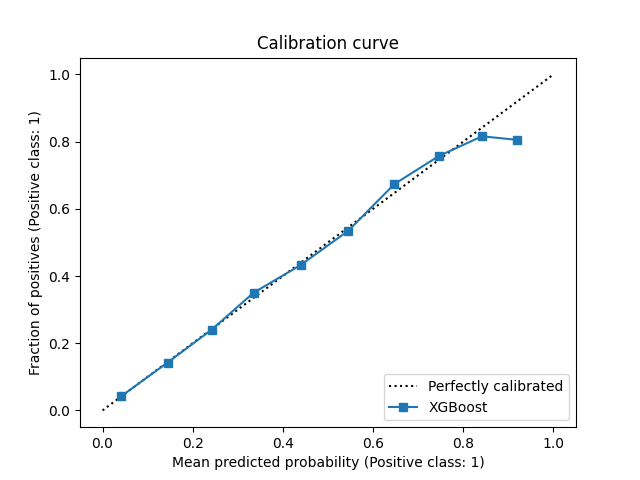
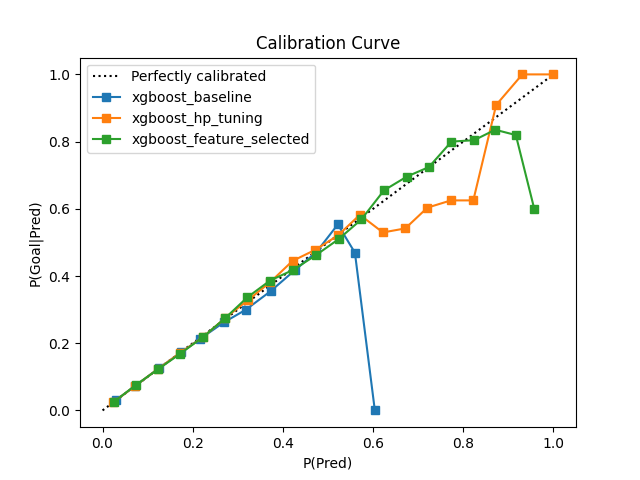
add multiple calibration plot in one figure

diff --git a/xgboost_class.py b/xgboost_class.py
@@ -11,7 +11,7 @@ import shap
 import functools
 import operator
 from xgboost import plot_importance
-from sklearn.calibration import CalibrationDisplay
+from sklearn.calibration import calibration_curve
 import xgboost as xgb
 import plotly.graph_objects as go
 from sklearn.metrics import roc_auc_score, roc_curve, accuracy_score, confusion_matrix
@@ -310,16 +310,28 @@ class xgboost_model():
         plt.savefig(save_path)
         plt.show()
 
-    def plot_calibration_curve(self, results, save_path):
-        y_prob = functools.reduce(
-            operator.iconcat, results['val']['probabilities'], [])
-        y_true = functools.reduce(
-            operator.iconcat, results['val']['labels'], [])
-        disp = CalibrationDisplay.from_predictions(
-            y_true, y_prob, n_bins=10, name='XGBoost', strategy='uniform')
-        disp.ax_.set_title('Calibration curve')
-        disp.figure_.savefig(save_path)
+    def plot_calibration_curve(self, models, results, save_path):
+        fig = plt.figure()
+        plt.title(f"Calibration Curve")
+        plt.plot([0, 1], [0, 1], "k:", label="Perfectly calibrated")
+        for i in range(len(models)):
+            y_prob = functools.reduce(
+                operator.iconcat, results[i]['val']['probabilities'], [])
+            y_true = functools.reduce(
+                operator.iconcat, results[i]['val']['labels'], [])
+            prob_true, prob_pred = calibration_curve(
+                y_true, y_prob, n_bins=20)
+            plt.plot(prob_pred, prob_true, "s-", label="%s" % (models[i]))
+
+        plt.xlabel("P(Pred)")
+        plt.ylabel("P(Goal|Pred)")
+        plt.legend()
+
+        plt.xticks(np.arange(0, 1.2, 0.2))
+        plt.yticks(np.arange(0, 1.2, 0.2))
         plt.show()
+
+        fig.savefig(save_path)
 
     def log_experiment(self, results, experiment_tag, log_model, model_name, model_path, hp, hparameters):
         experiment = Experiment(api_key=os.getenv("COMET_API_KEY"), project_name=os.getenv(

diff --git a/advanced_model.py b/advanced_model.py
@@ -42,9 +42,6 @@ if __name__ == "__main__":
 
     plot_results.append(res)
 
-    xgml.plot_calibration_curve(res, os.getenv(
-        "XGB_IMAGE_PATH") + 'xgboost_baseline' + '_calibration_curve.png')
-
     param_grid = {
         'objective': ['binary:logistic'],
         'max_depth': [3, 5, 7],
@@ -76,9 +73,6 @@ if __name__ == "__main__":
 
     plot_results.append(res)
 
-    xgml.plot_calibration_curve(res, os.getenv(
-        "XGB_IMAGE_PATH") + 'xgboost_hp_tuning' + '_calibration_curve.png')
-
     print('Performing feature selection...')
     train_data_feature_selected = xgml.feature_selection(train_data, train_label, best_params, os.getenv(
         "XGB_IMAGE_PATH") + 'feature_importance.png', os.getenv("XGB_IMAGE_PATH") + 'shap_importance.png')
@@ -98,7 +92,7 @@ if __name__ == "__main__":
 
     plot_results.append(res)
 
-    xgml.plot_calibration_curve(res, os.getenv(
+    xgml.plot_calibration_curve(['xgboost_baseline', 'xgboost_hp_tuning', 'xgboost_feature_selected'], plot_results, os.getenv(
         "XGB_IMAGE_PATH") + 'xgboost_feature_selected' + '_calibration_curve.png')
 
     xgml.plot_roc_simple(
